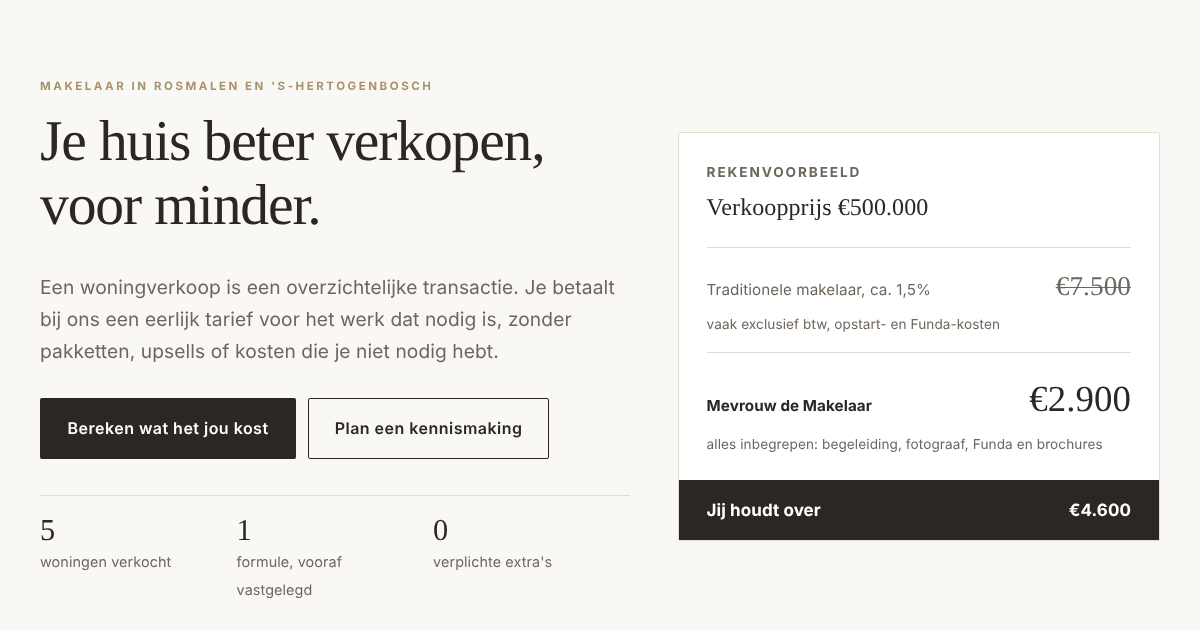
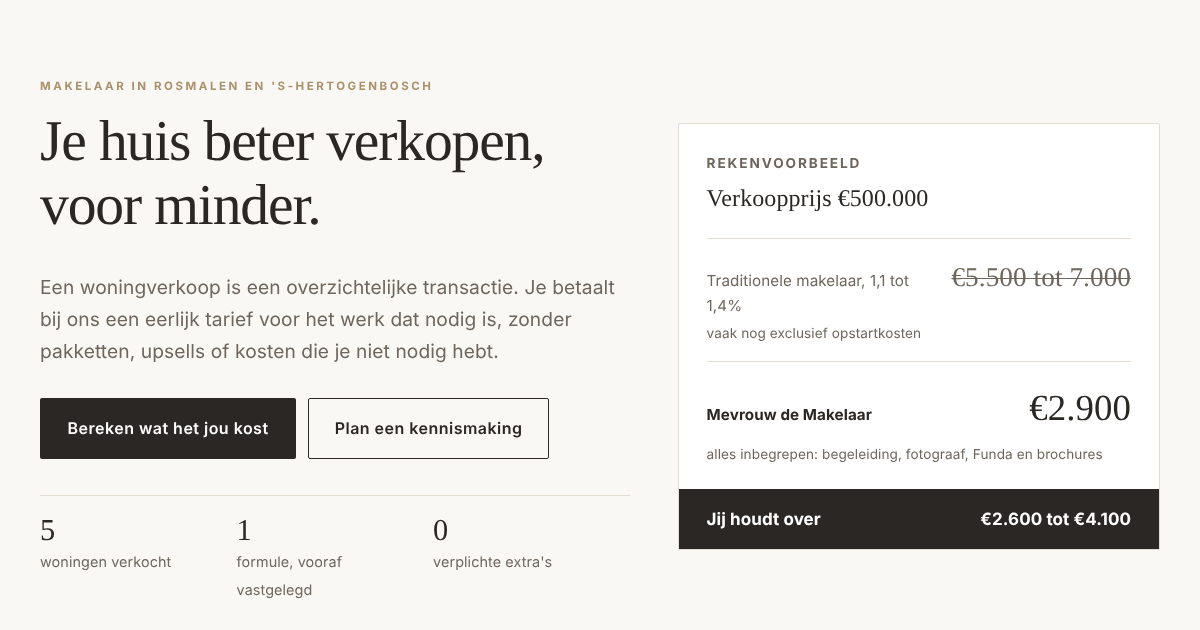
Vergelijking op gangbare courtage 1,1 tot 1,4%

diff --git a/index.html b/index.html
@@ -15,9 +15,9 @@
 <meta property="og:image" content="https://mevrouw-de-makelaar.nl/og-image.png">
 <meta name="theme-color" content="#2a2724">
 <link rel="icon" href="/favicon.svg" type="image/svg+xml">
-<link rel="stylesheet" href="/styles.css?v=940e9697">
+<link rel="stylesheet" href="/styles.css?v=202eb0bc">
 <script type="application/ld+json">{"@context":"https://schema.org","@type":"RealEstateAgent","name":"Mevrouw de Makelaar","url":"https://mevrouw-de-makelaar.nl","email":"loes@salesday.nl","telephone":"+31622549219","description":"Persoonlijke woningverkoop in Rosmalen en 's-Hertogenbosch tegen een transparante, lage prijs: (1% van de verkoopprijs min €800 kosten) gedeeld door 2, plus €800 vaste kosten.","areaServed":[{"@type":"City","name":"Rosmalen"},{"@type":"City","name":"'s-Hertogenbosch"}],"address":{"@type":"PostalAddress","addressLocality":"Rosmalen","addressCountry":"NL"},"founder":{"@type":"Person","name":"Loes"},"priceRange":"€"}</script>
-<script type="application/ld+json">{"@context":"https://schema.org","@type":"FAQPage","mainEntity":[{"@type":"Question","name":"Waarom is jullie tarief zo veel lager?","acceptedAnswer":{"@type":"Answer","text":"Omdat het werk bij een gewone woningverkoop nauwelijks verschilt tussen een huis van €350.000 en een van €700.000, terwijl een traditioneel percentage wel verdubbelt. Wij rekenen voor het werk dat nodig is: geen kantoorpand, geen pakketten, geen verplichte extra's. Je krijgt dezelfde professionele presentatie en begeleiding."}},{"@type":"Question","name":"Wat betaal ik precies?","acceptedAnswer":{"@type":"Answer","text":"Je betaalt de helft van (1% van de verkoopprijs min €800), plus €800 vaste kosten voor Funda, de fotograaf en de brochures. Bij een verkoopprijs van €500.000 is dat €2.100 plus €800, dus €2.900 in totaal. Op de tarievenpagina reken je het voor jouw huis uit."}},{"@type":"Question","name":"Wie doet de bezichtigingen?","acceptedAnswer":{"@type":"Answer","text":"Loes zelf. Ze kent je huis, weet wat kopers willen weten en vertelt het verhaal van je woning. Jij hoeft er niet bij te zijn, maar het mag natuurlijk wel."}},{"@type":"Question","name":"Wat valt er wel en niet onder de kosten?","acceptedAnswer":{"@type":"Answer","text":"De €800 vaste kosten zijn voor de Funda-plaatsing, de professionele fotograaf en de gedrukte brochures. De vergoeding voor Loes dekt de waardebepaling, bezichtigingen, onderhandeling en begeleiding tot de notaris. Niet inbegrepen zijn bijvoorbeeld het energielabel, een bouwkundige keuring of notariskosten [controleren en aanvullen]."}},{"@type":"Question","name":"Hoe zit het met de onderhandeling?","acceptedAnswer":{"@type":"Answer","text":"Loes onderhandelt namens jou en overlegt bij elk bod met je. Jij beslist altijd zelf of je een bod accepteert. Omdat haar vergoeding meegroeit met de verkoopprijs, heeft ze er belang bij dat je een goede prijs krijgt."}},{"@type":"Question","name":"Werk je samen met een notaris?","acceptedAnswer":{"@type":"Answer","text":"Ja. Je kiest zelf een notaris, of Loes stelt er een voor uit de regio. Zij levert de gegevens aan voor de koopovereenkomst en de akte van levering."}},{"@type":"Question","name":"Wat is courtage eigenlijk?","acceptedAnswer":{"@type":"Answer","text":"Courtage is het bedrag dat een makelaar rekent voor de verkoop van je huis, meestal een percentage van de verkoopprijs. Bij traditionele makelaars ligt dat vaak rond 1 tot 2%, soms nog exclusief btw."}},{"@type":"Question","name":"Ook als ik verkoop voor een ouder of na een overlijden?","acceptedAnswer":{"@type":"Answer","text":"Juist dan. Loes neemt de tijd, denkt mee over wat er moet gebeuren en ontzorgt waar het kan. Ook als jij verder weg woont."}}]}</script>
+<script type="application/ld+json">{"@context":"https://schema.org","@type":"FAQPage","mainEntity":[{"@type":"Question","name":"Waarom is jullie tarief zo veel lager?","acceptedAnswer":{"@type":"Answer","text":"Omdat het werk bij een gewone woningverkoop nauwelijks verschilt tussen een huis van €350.000 en een van €700.000, terwijl een traditioneel percentage wel verdubbelt. Wij rekenen voor het werk dat nodig is: geen kantoorpand, geen pakketten, geen verplichte extra's. Je krijgt dezelfde professionele presentatie en begeleiding."}},{"@type":"Question","name":"Wat betaal ik precies?","acceptedAnswer":{"@type":"Answer","text":"Je betaalt de helft van (1% van de verkoopprijs min €800), plus €800 vaste kosten voor Funda, de fotograaf en de brochures. Bij een verkoopprijs van €500.000 is dat €2.100 plus €800, dus €2.900 in totaal. Op de tarievenpagina reken je het voor jouw huis uit."}},{"@type":"Question","name":"Wie doet de bezichtigingen?","acceptedAnswer":{"@type":"Answer","text":"Loes zelf. Ze kent je huis, weet wat kopers willen weten en vertelt het verhaal van je woning. Jij hoeft er niet bij te zijn, maar het mag natuurlijk wel."}},{"@type":"Question","name":"Wat valt er wel en niet onder de kosten?","acceptedAnswer":{"@type":"Answer","text":"De €800 vaste kosten zijn voor de Funda-plaatsing, de professionele fotograaf en de gedrukte brochures. De vergoeding voor Loes dekt de waardebepaling, bezichtigingen, onderhandeling en begeleiding tot de notaris. Niet inbegrepen zijn bijvoorbeeld het energielabel, een bouwkundige keuring of notariskosten [controleren en aanvullen]."}},{"@type":"Question","name":"Hoe zit het met de onderhandeling?","acceptedAnswer":{"@type":"Answer","text":"Loes onderhandelt namens jou en overlegt bij elk bod met je. Jij beslist altijd zelf of je een bod accepteert. Omdat haar vergoeding meegroeit met de verkoopprijs, heeft ze er belang bij dat je een goede prijs krijgt."}},{"@type":"Question","name":"Werk je samen met een notaris?","acceptedAnswer":{"@type":"Answer","text":"Ja. Je kiest zelf een notaris, of Loes stelt er een voor uit de regio. Zij levert de gegevens aan voor de koopovereenkomst en de akte van levering."}},{"@type":"Question","name":"Wat is courtage eigenlijk?","acceptedAnswer":{"@type":"Answer","text":"Courtage is het bedrag dat een makelaar rekent voor de verkoop van je huis, meestal een percentage van de verkoopprijs. Bij traditionele verkoopmakelaars ligt dat meestal tussen 1,1 en 1,4%, met daarbovenop vaak opstartkosten van enkele honderden euro's."}},{"@type":"Question","name":"Ook als ik verkoop voor een ouder of na een overlijden?","acceptedAnswer":{"@type":"Answer","text":"Juist dan. Loes neemt de tijd, denkt mee over wat er moet gebeuren en ontzorgt waar het kan. Ook als jij verder weg woont."}}]}</script>
 </head>
 <body>
 <a class="skip" href="#main">Naar de inhoud</a>
@@ -56,9 +56,9 @@
       <div class="price-panel" aria-label="Rekenvoorbeeld">
         <div class="pp-head">Rekenvoorbeeld</div>
         <div class="pp-price">Verkoopprijs €500.000</div>
-        <div class="pp-row old"><span>Traditionele makelaar, ca. 1,5%</span><b>€7.500</b><small>vaak exclusief btw, opstart- en Funda-kosten</small></div>
+        <div class="pp-row old"><span>Traditionele makelaar, 1,1 tot 1,4%</span><b>€5.500 tot 7.000</b><small>vaak nog exclusief opstartkosten</small></div>
         <div class="pp-row us"><span>Mevrouw de Makelaar</span><b>€2.900</b><small>alles inbegrepen: begeleiding, fotograaf, Funda en brochures</small></div>
-        <div class="pp-foot"><span>Jij houdt over</span><span>€4.600</span></div>
+        <div class="pp-foot"><span>Jij houdt over</span><span>€2.600 tot €4.100</span></div>
       </div>
     </div>
   </div>
@@ -116,11 +116,11 @@
     <div class="compare">
       <div class="compare-row"><span>Mevrouw de Makelaar</span><b data-out="total">€ 2.900</b></div>
       <div class="bar"><i data-bar style="width:39%"></i></div>
-      <div class="compare-row" style="margin-top:12px"><span>Traditionele makelaar (ca. 1,5%)</span><b data-out="trad">€ 7.500</b></div>
+      <div class="compare-row" style="margin-top:12px"><span>Traditionele makelaar (1,1 tot 1,4%)</span><b data-out="trad">€ 5.500 tot € 7.000</b></div>
       <div class="bar"><i data-bar-trad style="width:100%; background:#6e665d"></i></div>
     </div>
-    <div class="saving"><span>Jouw besparing</span><strong data-out="saving">€ 4.600</strong></div>
-    <p class="disclaimer">Indicatie. De vergelijking gaat uit van 1,5% courtage; bij traditionele makelaars komen daar vaak nog btw en opstart- of Funda-kosten bij. Of over de vergoeding btw verschuldigd is <span class="ph">[controleren]</span> en de definitieve afspraak leggen we vast in een opdrachtbevestiging.</p>
+    <div class="saving"><span>Jouw besparing</span><strong data-out="saving">€ 2.600 tot € 4.100</strong></div>
+    <p class="disclaimer">Indicatie. De vergelijking gaat uit van 1,1 tot 1,4% courtage, de gangbare bandbreedte bij verkoopmakelaars. Daar komen vaak nog opstart-, Funda- of contractkosten bij. Of over de vergoeding btw verschuldigd is <span class="ph">[controleren]</span> en de definitieve afspraak leggen we vast in een opdrachtbevestiging.</p>
   </div>
 </div>
   </div>
@@ -191,7 +191,7 @@
   <details><summary>Wat valt er wel en niet onder de kosten?</summary><div class="answer"><p>De €800 vaste kosten zijn voor de Funda-plaatsing, de professionele fotograaf en de gedrukte brochures. De vergoeding voor Loes dekt de waardebepaling, bezichtigingen, onderhandeling en begeleiding tot de notaris. Niet inbegrepen zijn bijvoorbeeld het energielabel, een bouwkundige keuring of notariskosten <span class="ph">[controleren en aanvullen]</span>.</p></div></details>
   <details><summary>Hoe zit het met de onderhandeling?</summary><div class="answer"><p>Loes onderhandelt namens jou en overlegt bij elk bod met je. Jij beslist altijd zelf of je een bod accepteert. Omdat haar vergoeding meegroeit met de verkoopprijs, heeft ze er belang bij dat je een goede prijs krijgt.</p></div></details>
   <details><summary>Werk je samen met een notaris?</summary><div class="answer"><p>Ja. Je kiest zelf een notaris, of Loes stelt er een voor uit de regio. Zij levert de gegevens aan voor de koopovereenkomst en de akte van levering.</p></div></details>
-  <details><summary>Wat is courtage eigenlijk?</summary><div class="answer"><p>Courtage is het bedrag dat een makelaar rekent voor de verkoop van je huis, meestal een percentage van de verkoopprijs. Bij traditionele makelaars ligt dat vaak rond 1 tot 2%, soms nog exclusief btw.</p></div></details>
+  <details><summary>Wat is courtage eigenlijk?</summary><div class="answer"><p>Courtage is het bedrag dat een makelaar rekent voor de verkoop van je huis, meestal een percentage van de verkoopprijs. Bij traditionele verkoopmakelaars ligt dat meestal tussen 1,1 en 1,4%, met daarbovenop vaak opstartkosten van enkele honderden euro's.</p></div></details>
   <details><summary>Ook als ik verkoop voor een ouder of na een overlijden?</summary><div class="answer"><p>Juist dan. Loes neemt de tijd, denkt mee over wat er moet gebeuren en ontzorgt waar het kan. Ook als jij verder weg woont.</p></div></details>
 </div>
   </div>
@@ -278,6 +278,6 @@
   <p>Deze site gebruikt alleen functionele cookies, zodat alles goed werkt. Geen tracking, geen advertentiecookies. <a href="/cookies">Lees meer</a>.</p>
   <button class="btn btn--primary" type="button">Prima</button>
 </div>
-<script src="/main.js?v=20bf6b8d" defer></script>
+<script src="/main.js?v=b4cc897a" defer></script>
 </body>
 </html>

diff --git a/tarieven.html b/tarieven.html
@@ -15,7 +15,7 @@
 <meta property="og:image" content="https://mevrouw-de-makelaar.nl/og-image.png">
 <meta name="theme-color" content="#2a2724">
 <link rel="icon" href="/favicon.svg" type="image/svg+xml">
-<link rel="stylesheet" href="/styles.css?v=940e9697">
+<link rel="stylesheet" href="/styles.css?v=202eb0bc">
 <script type="application/ld+json">{"@context":"https://schema.org","@type":"RealEstateAgent","name":"Mevrouw de Makelaar","url":"https://mevrouw-de-makelaar.nl","email":"loes@salesday.nl","telephone":"+31622549219","description":"Persoonlijke woningverkoop in Rosmalen en 's-Hertogenbosch tegen een transparante, lage prijs: (1% van de verkoopprijs min €800 kosten) gedeeld door 2, plus €800 vaste kosten.","areaServed":[{"@type":"City","name":"Rosmalen"},{"@type":"City","name":"'s-Hertogenbosch"}],"address":{"@type":"PostalAddress","addressLocality":"Rosmalen","addressCountry":"NL"},"founder":{"@type":"Person","name":"Loes"},"priceRange":"€"}</script>
 </head>
 <body>
@@ -76,11 +76,11 @@
     <div class="compare">
       <div class="compare-row"><span>Mevrouw de Makelaar</span><b data-out="total">€ 2.900</b></div>
       <div class="bar"><i data-bar style="width:39%"></i></div>
-      <div class="compare-row" style="margin-top:12px"><span>Traditionele makelaar (ca. 1,5%)</span><b data-out="trad">€ 7.500</b></div>
+      <div class="compare-row" style="margin-top:12px"><span>Traditionele makelaar (1,1 tot 1,4%)</span><b data-out="trad">€ 5.500 tot € 7.000</b></div>
       <div class="bar"><i data-bar-trad style="width:100%; background:#6e665d"></i></div>
     </div>
-    <div class="saving"><span>Jouw besparing</span><strong data-out="saving">€ 4.600</strong></div>
-    <p class="disclaimer">Indicatie. De vergelijking gaat uit van 1,5% courtage; bij traditionele makelaars komen daar vaak nog btw en opstart- of Funda-kosten bij. Of over de vergoeding btw verschuldigd is <span class="ph">[controleren]</span> en de definitieve afspraak leggen we vast in een opdrachtbevestiging.</p>
+    <div class="saving"><span>Jouw besparing</span><strong data-out="saving">€ 2.600 tot € 4.100</strong></div>
+    <p class="disclaimer">Indicatie. De vergelijking gaat uit van 1,1 tot 1,4% courtage, de gangbare bandbreedte bij verkoopmakelaars. Daar komen vaak nog opstart-, Funda- of contractkosten bij. Of over de vergoeding btw verschuldigd is <span class="ph">[controleren]</span> en de definitieve afspraak leggen we vast in een opdrachtbevestiging.</p>
   </div>
 </div>
   </div>
@@ -109,15 +109,15 @@
 </section>
 <section class="section section--sand">
   <div class="wrap">
-    <div class="section-head"><h2>Vergelijking met een traditionele makelaar</h2><p class="lead">Indicatie op basis van 1,5% courtage. Traditionele makelaars rekenen daarnaast vaak btw en opstartkosten.</p></div>
+    <div class="section-head"><h2>Vergelijking met een traditionele makelaar</h2><p class="lead">Indicatie op basis van de gangbare courtage van 1,1 tot 1,4%. Traditionele makelaars rekenen daarnaast vaak opstartkosten.</p></div>
     <div class="table-wrap"><table class="compare-table">
-      <thead><tr><th>Verkoopprijs</th><th class="hl">Mevrouw de Makelaar</th><th>Traditioneel (ca. 1,5%)</th><th>Jouw besparing</th></tr></thead>
+      <thead><tr><th>Verkoopprijs</th><th class="hl">Mevrouw de Makelaar</th><th>Traditioneel (1,1 tot 1,4%)</th><th>Jouw besparing</th></tr></thead>
       <tbody>
-        <tr><td>€300.000</td><td class="hl">€1.900</td><td>€4.500</td><td>€2.600</td></tr>
-        <tr><td>€400.000</td><td class="hl">€2.400</td><td>€6.000</td><td>€3.600</td></tr>
-        <tr><td>€500.000</td><td class="hl">€2.900</td><td>€7.500</td><td>€4.600</td></tr>
-        <tr><td>€650.000</td><td class="hl">€3.650</td><td>€9.750</td><td>€6.100</td></tr>
-        <tr><td>€800.000</td><td class="hl">€4.400</td><td>€12.000</td><td>€7.600</td></tr>
+        <tr><td>€300.000</td><td class="hl">€1.900</td><td>€3.300 tot €4.200</td><td>€1.400 tot €2.300</td></tr>
+        <tr><td>€400.000</td><td class="hl">€2.400</td><td>€4.400 tot €5.600</td><td>€2.000 tot €3.200</td></tr>
+        <tr><td>€500.000</td><td class="hl">€2.900</td><td>€5.500 tot €7.000</td><td>€2.600 tot €4.100</td></tr>
+        <tr><td>€650.000</td><td class="hl">€3.650</td><td>€7.150 tot €9.100</td><td>€3.500 tot €5.450</td></tr>
+        <tr><td>€800.000</td><td class="hl">€4.400</td><td>€8.800 tot €11.200</td><td>€4.400 tot €6.800</td></tr>
       </tbody>
     </table></div>
     <p class="muted mt-2" style="font-size:.92rem">Bedragen zijn een indicatie. Of over de vergoeding btw verschuldigd is <span class="ph">[controleren]</span> en de definitieve afspraak leggen we vast in een opdrachtbevestiging.</p>
@@ -176,6 +176,6 @@
   <p>Deze site gebruikt alleen functionele cookies, zodat alles goed werkt. Geen tracking, geen advertentiecookies. <a href="/cookies">Lees meer</a>.</p>
   <button class="btn btn--primary" type="button">Prima</button>
 </div>
-<script src="/main.js?v=20bf6b8d" defer></script>
+<script src="/main.js?v=b4cc897a" defer></script>
 </body>
 </html>

diff --git a/main.js b/main.js
@@ -3,7 +3,8 @@
 
   var EMAIL = "loes@salesday.nl";
   var COSTS = 800;           // vaste kosten: Funda, fotograaf, brochures
-  var TRADITIONAL = 0.015;   // indicatie traditionele courtage
+  var TRAD_LOW = 0.011;      // gangbare courtage, onderkant
+  var TRAD_HIGH = 0.014;     // gangbare courtage, bovenkant
 
   // Mobiel menu
   var toggle = document.querySelector(".nav-toggle");
@@ -35,8 +36,10 @@
       var one = p * 0.01;
       var fee = Math.max(one - COSTS, 0) / 2;
       var total = fee + COSTS;
-      var trad = p * TRADITIONAL;
-      var saving = Math.max(trad - total, 0);
+      var tradLo = p * TRAD_LOW, tradHi = p * TRAD_HIGH;
+      var trad = tradHi;
+      var saving = Math.max(tradLo - total, 0) ;
+      var savingHi = Math.max(tradHi - total, 0);
       var set = function (k, v) { out(k).forEach(function (el) { el.textContent = v; }); };
       set("price", euro(p));
       set("one", euro(one));
@@ -44,8 +47,8 @@
       set("rest", euro(one - COSTS));
       set("fee", euro(fee));
       set("total", euro(total));
-      set("trad", euro(trad));
-      set("saving", euro(saving));
+      set("trad", euro(tradLo) + " tot " + euro(tradHi));
+      set("saving", euro(saving) + " tot " + euro(savingHi));
       var pct = trad > 0 ? Math.round((total / trad) * 100) : 0;
       root.querySelectorAll("[data-bar]").forEach(function (b) { b.style.width = pct + "%"; });
       root.querySelectorAll("[data-bar-trad]").forEach(function (b) { b.style.width = "100%"; });

diff --git a/contact.html b/contact.html
@@ -15,7 +15,7 @@
 <meta property="og:image" content="https://mevrouw-de-makelaar.nl/og-image.png">
 <meta name="theme-color" content="#2a2724">
 <link rel="icon" href="/favicon.svg" type="image/svg+xml">
-<link rel="stylesheet" href="/styles.css?v=940e9697">
+<link rel="stylesheet" href="/styles.css?v=202eb0bc">
 <script type="application/ld+json">{"@context":"https://schema.org","@type":"RealEstateAgent","name":"Mevrouw de Makelaar","url":"https://mevrouw-de-makelaar.nl","email":"loes@salesday.nl","telephone":"+31622549219","description":"Persoonlijke woningverkoop in Rosmalen en 's-Hertogenbosch tegen een transparante, lage prijs: (1% van de verkoopprijs min €800 kosten) gedeeld door 2, plus €800 vaste kosten.","areaServed":[{"@type":"City","name":"Rosmalen"},{"@type":"City","name":"'s-Hertogenbosch"}],"address":{"@type":"PostalAddress","addressLocality":"Rosmalen","addressCountry":"NL"},"founder":{"@type":"Person","name":"Loes"},"priceRange":"€"}</script>
 </head>
 <body>
@@ -118,6 +118,6 @@
   <p>Deze site gebruikt alleen functionele cookies, zodat alles goed werkt. Geen tracking, geen advertentiecookies. <a href="/cookies">Lees meer</a>.</p>
   <button class="btn btn--primary" type="button">Prima</button>
 </div>
-<script src="/main.js?v=20bf6b8d" defer></script>
+<script src="/main.js?v=b4cc897a" defer></script>
 </body>
 </html>

diff --git a/over-loes.html b/over-loes.html
@@ -15,7 +15,7 @@
 <meta property="og:image" content="https://mevrouw-de-makelaar.nl/og-image.png">
 <meta name="theme-color" content="#2a2724">
 <link rel="icon" href="/favicon.svg" type="image/svg+xml">
-<link rel="stylesheet" href="/styles.css?v=940e9697">
+<link rel="stylesheet" href="/styles.css?v=202eb0bc">
 <script type="application/ld+json">{"@context":"https://schema.org","@type":"RealEstateAgent","name":"Mevrouw de Makelaar","url":"https://mevrouw-de-makelaar.nl","email":"loes@salesday.nl","telephone":"+31622549219","description":"Persoonlijke woningverkoop in Rosmalen en 's-Hertogenbosch tegen een transparante, lage prijs: (1% van de verkoopprijs min €800 kosten) gedeeld door 2, plus €800 vaste kosten.","areaServed":[{"@type":"City","name":"Rosmalen"},{"@type":"City","name":"'s-Hertogenbosch"}],"address":{"@type":"PostalAddress","addressLocality":"Rosmalen","addressCountry":"NL"},"founder":{"@type":"Person","name":"Loes"},"priceRange":"€"}</script>
 </head>
 <body>
@@ -114,6 +114,6 @@
   <p>Deze site gebruikt alleen functionele cookies, zodat alles goed werkt. Geen tracking, geen advertentiecookies. <a href="/cookies">Lees meer</a>.</p>
   <button class="btn btn--primary" type="button">Prima</button>
 </div>
-<script src="/main.js?v=20bf6b8d" defer></script>
+<script src="/main.js?v=b4cc897a" defer></script>
 </body>
 </html>

diff --git a/privacy.html b/privacy.html
@@ -15,7 +15,7 @@
 <meta property="og:image" content="https://mevrouw-de-makelaar.nl/og-image.png">
 <meta name="theme-color" content="#2a2724">
 <link rel="icon" href="/favicon.svg" type="image/svg+xml">
-<link rel="stylesheet" href="/styles.css?v=940e9697">
+<link rel="stylesheet" href="/styles.css?v=202eb0bc">
 <script type="application/ld+json">{"@context":"https://schema.org","@type":"RealEstateAgent","name":"Mevrouw de Makelaar","url":"https://mevrouw-de-makelaar.nl","email":"loes@salesday.nl","telephone":"+31622549219","description":"Persoonlijke woningverkoop in Rosmalen en 's-Hertogenbosch tegen een transparante, lage prijs: (1% van de verkoopprijs min €800 kosten) gedeeld door 2, plus €800 vaste kosten.","areaServed":[{"@type":"City","name":"Rosmalen"},{"@type":"City","name":"'s-Hertogenbosch"}],"address":{"@type":"PostalAddress","addressLocality":"Rosmalen","addressCountry":"NL"},"founder":{"@type":"Person","name":"Loes"},"priceRange":"€"}</script>
 </head>
 <body>
@@ -110,6 +110,6 @@
   <p>Deze site gebruikt alleen functionele cookies, zodat alles goed werkt. Geen tracking, geen advertentiecookies. <a href="/cookies">Lees meer</a>.</p>
   <button class="btn btn--primary" type="button">Prima</button>
 </div>
-<script src="/main.js?v=20bf6b8d" defer></script>
+<script src="/main.js?v=b4cc897a" defer></script>
 </body>
 </html>

diff --git a/verkocht.html b/verkocht.html
@@ -15,7 +15,7 @@
 <meta property="og:image" content="https://mevrouw-de-makelaar.nl/og-image.png">
 <meta name="theme-color" content="#2a2724">
 <link rel="icon" href="/favicon.svg" type="image/svg+xml">
-<link rel="stylesheet" href="/styles.css?v=940e9697">
+<link rel="stylesheet" href="/styles.css?v=202eb0bc">
 <script type="application/ld+json">{"@context":"https://schema.org","@type":"RealEstateAgent","name":"Mevrouw de Makelaar","url":"https://mevrouw-de-makelaar.nl","email":"loes@salesday.nl","telephone":"+31622549219","description":"Persoonlijke woningverkoop in Rosmalen en 's-Hertogenbosch tegen een transparante, lage prijs: (1% van de verkoopprijs min €800 kosten) gedeeld door 2, plus €800 vaste kosten.","areaServed":[{"@type":"City","name":"Rosmalen"},{"@type":"City","name":"'s-Hertogenbosch"}],"address":{"@type":"PostalAddress","addressLocality":"Rosmalen","addressCountry":"NL"},"founder":{"@type":"Person","name":"Loes"},"priceRange":"€"}</script>
 </head>
 <body>
@@ -136,6 +136,6 @@
   <p>Deze site gebruikt alleen functionele cookies, zodat alles goed werkt. Geen tracking, geen advertentiecookies. <a href="/cookies">Lees meer</a>.</p>
   <button class="btn btn--primary" type="button">Prima</button>
 </div>
-<script src="/main.js?v=20bf6b8d" defer></script>
+<script src="/main.js?v=b4cc897a" defer></script>
 </body>
 </html>

diff --git a/voorwaarden.html b/voorwaarden.html
@@ -15,7 +15,7 @@
 <meta property="og:image" content="https://mevrouw-de-makelaar.nl/og-image.png">
 <meta name="theme-color" content="#2a2724">
 <link rel="icon" href="/favicon.svg" type="image/svg+xml">
-<link rel="stylesheet" href="/styles.css?v=940e9697">
+<link rel="stylesheet" href="/styles.css?v=202eb0bc">
 <script type="application/ld+json">{"@context":"https://schema.org","@type":"RealEstateAgent","name":"Mevrouw de Makelaar","url":"https://mevrouw-de-makelaar.nl","email":"loes@salesday.nl","telephone":"+31622549219","description":"Persoonlijke woningverkoop in Rosmalen en 's-Hertogenbosch tegen een transparante, lage prijs: (1% van de verkoopprijs min €800 kosten) gedeeld door 2, plus €800 vaste kosten.","areaServed":[{"@type":"City","name":"Rosmalen"},{"@type":"City","name":"'s-Hertogenbosch"}],"address":{"@type":"PostalAddress","addressLocality":"Rosmalen","addressCountry":"NL"},"founder":{"@type":"Person","name":"Loes"},"priceRange":"€"}</script>
 </head>
 <body>
@@ -102,6 +102,6 @@
   <p>Deze site gebruikt alleen functionele cookies, zodat alles goed werkt. Geen tracking, geen advertentiecookies. <a href="/cookies">Lees meer</a>.</p>
   <button class="btn btn--primary" type="button">Prima</button>
 </div>
-<script src="/main.js?v=20bf6b8d" defer></script>
+<script src="/main.js?v=b4cc897a" defer></script>
 </body>
 </html>

diff --git a/werkwijze.html b/werkwijze.html
@@ -15,7 +15,7 @@
 <meta property="og:image" content="https://mevrouw-de-makelaar.nl/og-image.png">
 <meta name="theme-color" content="#2a2724">
 <link rel="icon" href="/favicon.svg" type="image/svg+xml">
-<link rel="stylesheet" href="/styles.css?v=940e9697">
+<link rel="stylesheet" href="/styles.css?v=202eb0bc">
 <script type="application/ld+json">{"@context":"https://schema.org","@type":"RealEstateAgent","name":"Mevrouw de Makelaar","url":"https://mevrouw-de-makelaar.nl","email":"loes@salesday.nl","telephone":"+31622549219","description":"Persoonlijke woningverkoop in Rosmalen en 's-Hertogenbosch tegen een transparante, lage prijs: (1% van de verkoopprijs min €800 kosten) gedeeld door 2, plus €800 vaste kosten.","areaServed":[{"@type":"City","name":"Rosmalen"},{"@type":"City","name":"'s-Hertogenbosch"}],"address":{"@type":"PostalAddress","addressLocality":"Rosmalen","addressCountry":"NL"},"founder":{"@type":"Person","name":"Loes"},"priceRange":"€"}</script>
 </head>
 <body>
@@ -106,6 +106,6 @@
   <p>Deze site gebruikt alleen functionele cookies, zodat alles goed werkt. Geen tracking, geen advertentiecookies. <a href="/cookies">Lees meer</a>.</p>
   <button class="btn btn--primary" type="button">Prima</button>
 </div>
-<script src="/main.js?v=20bf6b8d" defer></script>
+<script src="/main.js?v=b4cc897a" defer></script>
 </body>
 </html>

diff --git a/404.html b/404.html
@@ -15,7 +15,7 @@
 <meta property="og:image" content="https://mevrouw-de-makelaar.nl/og-image.png">
 <meta name="theme-color" content="#2a2724">
 <link rel="icon" href="/favicon.svg" type="image/svg+xml">
-<link rel="stylesheet" href="/styles.css?v=940e9697">
+<link rel="stylesheet" href="/styles.css?v=202eb0bc">
 <script type="application/ld+json">{"@context":"https://schema.org","@type":"RealEstateAgent","name":"Mevrouw de Makelaar","url":"https://mevrouw-de-makelaar.nl","email":"loes@salesday.nl","telephone":"+31622549219","description":"Persoonlijke woningverkoop in Rosmalen en 's-Hertogenbosch tegen een transparante, lage prijs: (1% van de verkoopprijs min €800 kosten) gedeeld door 2, plus €800 vaste kosten.","areaServed":[{"@type":"City","name":"Rosmalen"},{"@type":"City","name":"'s-Hertogenbosch"}],"address":{"@type":"PostalAddress","addressLocality":"Rosmalen","addressCountry":"NL"},"founder":{"@type":"Person","name":"Loes"},"priceRange":"€"}</script>
 </head>
 <body>
@@ -92,6 +92,6 @@
   <p>Deze site gebruikt alleen functionele cookies, zodat alles goed werkt. Geen tracking, geen advertentiecookies. <a href="/cookies">Lees meer</a>.</p>
   <button class="btn btn--primary" type="button">Prima</button>
 </div>
-<script src="/main.js?v=20bf6b8d" defer></script>
+<script src="/main.js?v=b4cc897a" defer></script>
 </body>
 </html>

diff --git a/cookies.html b/cookies.html
@@ -15,7 +15,7 @@
 <meta property="og:image" content="https://mevrouw-de-makelaar.nl/og-image.png">
 <meta name="theme-color" content="#2a2724">
 <link rel="icon" href="/favicon.svg" type="image/svg+xml">
-<link rel="stylesheet" href="/styles.css?v=940e9697">
+<link rel="stylesheet" href="/styles.css?v=202eb0bc">
 <script type="application/ld+json">{"@context":"https://schema.org","@type":"RealEstateAgent","name":"Mevrouw de Makelaar","url":"https://mevrouw-de-makelaar.nl","email":"loes@salesday.nl","telephone":"+31622549219","description":"Persoonlijke woningverkoop in Rosmalen en 's-Hertogenbosch tegen een transparante, lage prijs: (1% van de verkoopprijs min €800 kosten) gedeeld door 2, plus €800 vaste kosten.","areaServed":[{"@type":"City","name":"Rosmalen"},{"@type":"City","name":"'s-Hertogenbosch"}],"address":{"@type":"PostalAddress","addressLocality":"Rosmalen","addressCountry":"NL"},"founder":{"@type":"Person","name":"Loes"},"priceRange":"€"}</script>
 </head>
 <body>
@@ -99,6 +99,6 @@
   <p>Deze site gebruikt alleen functionele cookies, zodat alles goed werkt. Geen tracking, geen advertentiecookies. <a href="/cookies">Lees meer</a>.</p>
   <button class="btn btn--primary" type="button">Prima</button>
 </div>
-<script src="/main.js?v=20bf6b8d" defer></script>
+<script src="/main.js?v=b4cc897a" defer></script>
 </body>
 </html>

diff --git a/styles.css b/styles.css
@@ -370,3 +370,4 @@ h2 { font-size: clamp(1.6rem, 3vw, 2.3rem); }
 .nav .btn, .nav .btn:hover { box-shadow: none; }
 .nav .btn--primary { background: transparent; color: var(--teal-900); border: 1px solid var(--teal-900); padding: .55em 1.1em; font-size: .88rem; }
 .nav .btn--primary:hover { background: var(--teal-900); color: #fff; }
+.pp-row.old b { font-size: 1.3rem; } .saving { flex-wrap: wrap; } .saving strong { font-size: 1.45rem; } .compare-row { flex-wrap: wrap; }
